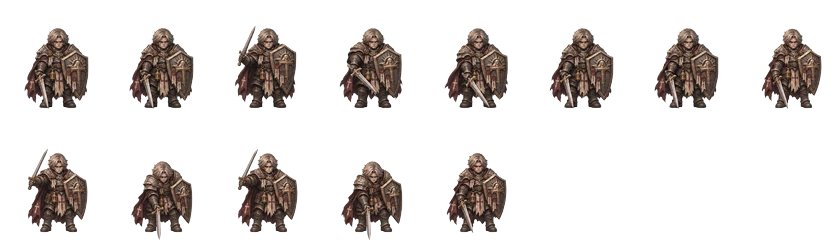
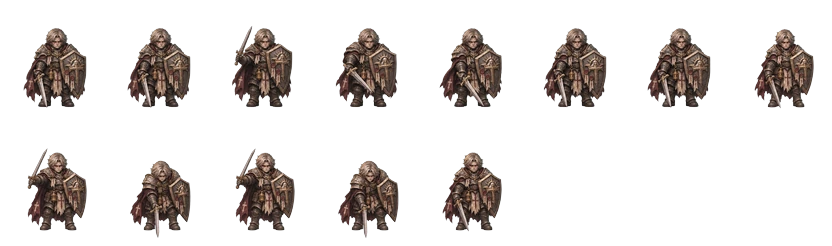
Paladin sheet rebuilt without the white veil (shield-bash SE came with translucent white over the whole canvas)
The sheet files that match the cell sizes committed in 4a10755.

Claude-Session: https://claude.ai/code/session_01NroGBoR4DbBAz4LWiULPaj

diff --git a/scripts/sprites/build_paladin_v8.py b/scripts/sprites/build_paladin_v8.py
@@ -28,8 +28,15 @@ LIMIT = 4096
 
 
 def clean(a):
-    """ChatGPT haze: weak alpha survives only right next to the solid body"""
-    al = a[..., 3].astype(np.float32); strong = al >= STRONG
+    """ChatGPT haze: weak alpha survives only right next to the solid body.
+    Some sheets come back with a translucent white veil over the WHOLE canvas (shield-bash SE: alpha 150-175 everywhere,
+    which read as a white square in the game). That veil is measured (5th percentile of alpha) and taken out first:
+    alpha is rescaled so the veil level becomes 0, and the solid threshold moves above it."""
+    al = a[..., 3].astype(np.float32); veil = float(np.percentile(al, 5))
+    if veil > 40:
+        al = np.clip((al - veil - 8) / (255 - veil - 8), 0, 1) * 255
+        a = a.copy(); a[..., 3] = al.astype(np.uint8)
+    strong = al >= STRONG
     if not strong.any(): return a
     fall = np.clip(1 - (distance_transform_edt(~strong) - KEEP) / FADE, 0, 1)
     na = np.where(strong, al, al * fall); na[(na < FLOOR) & ~strong] = 0
